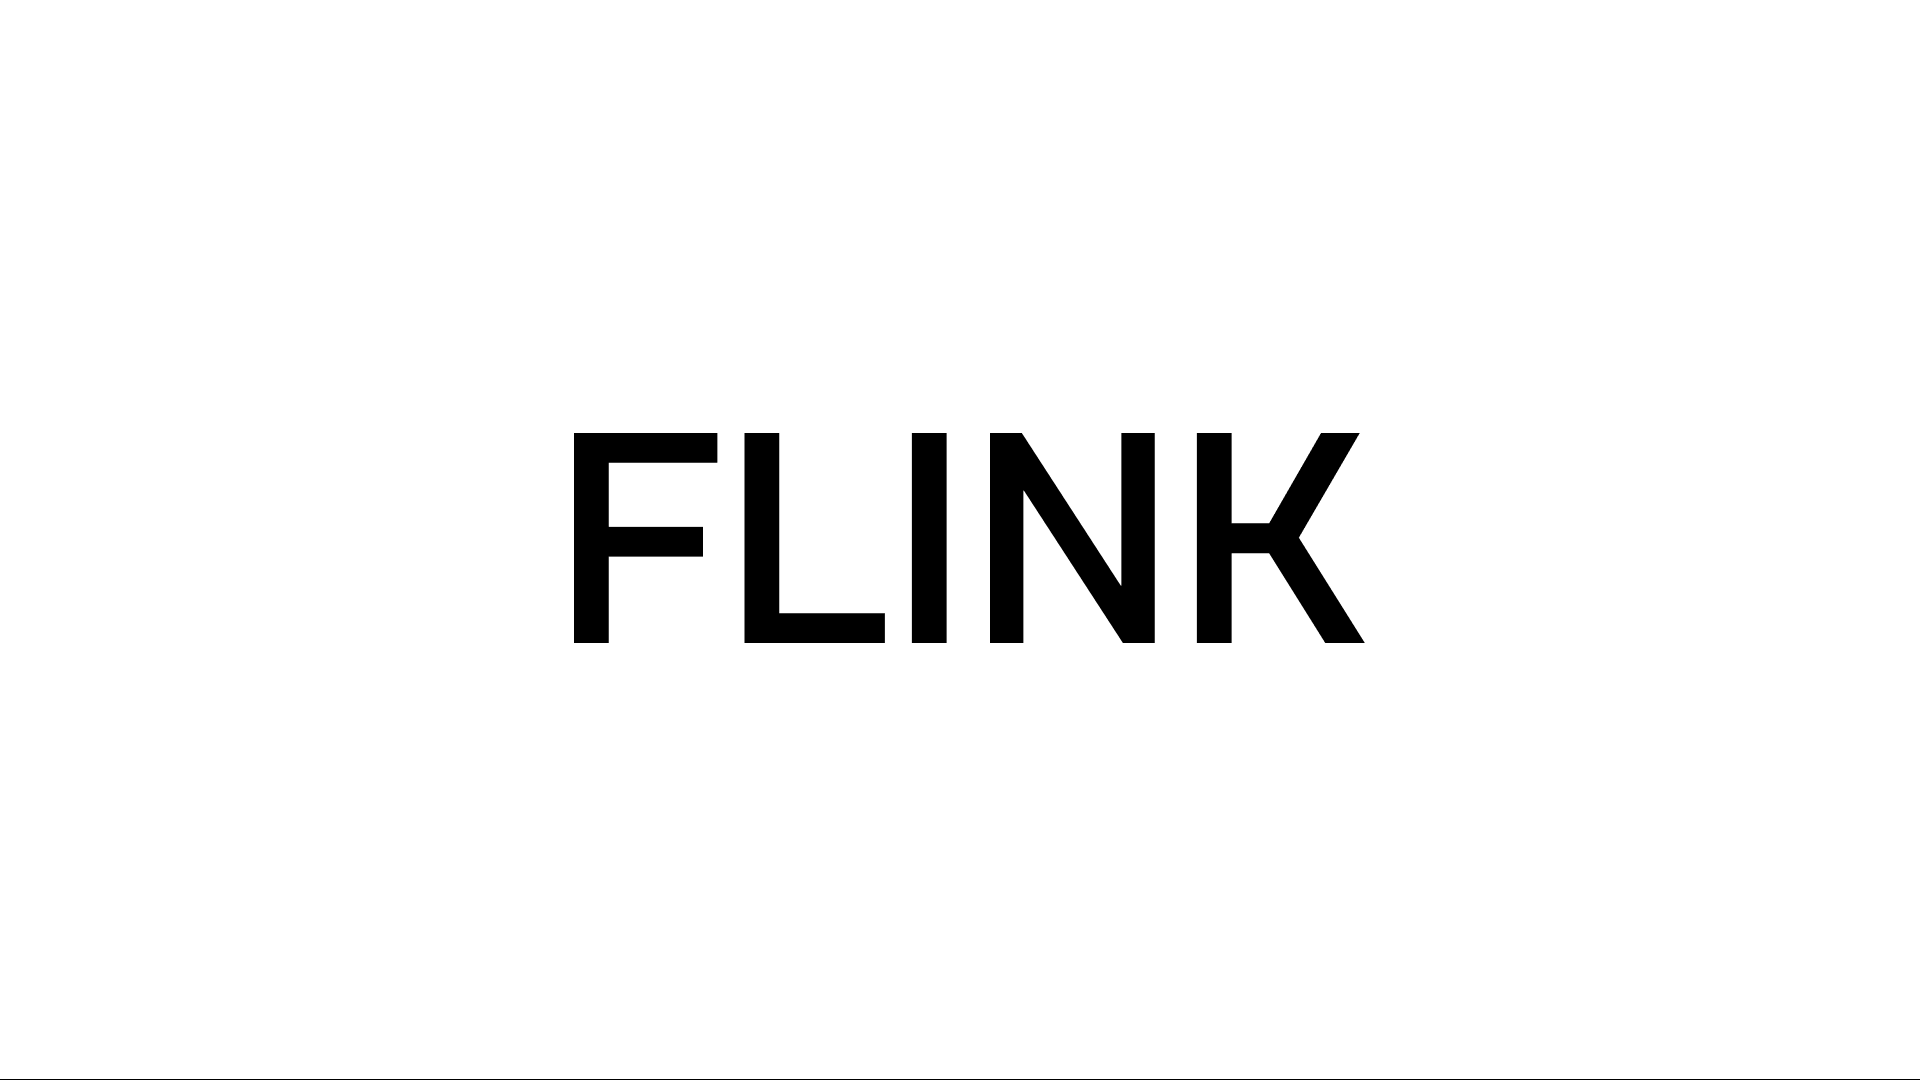
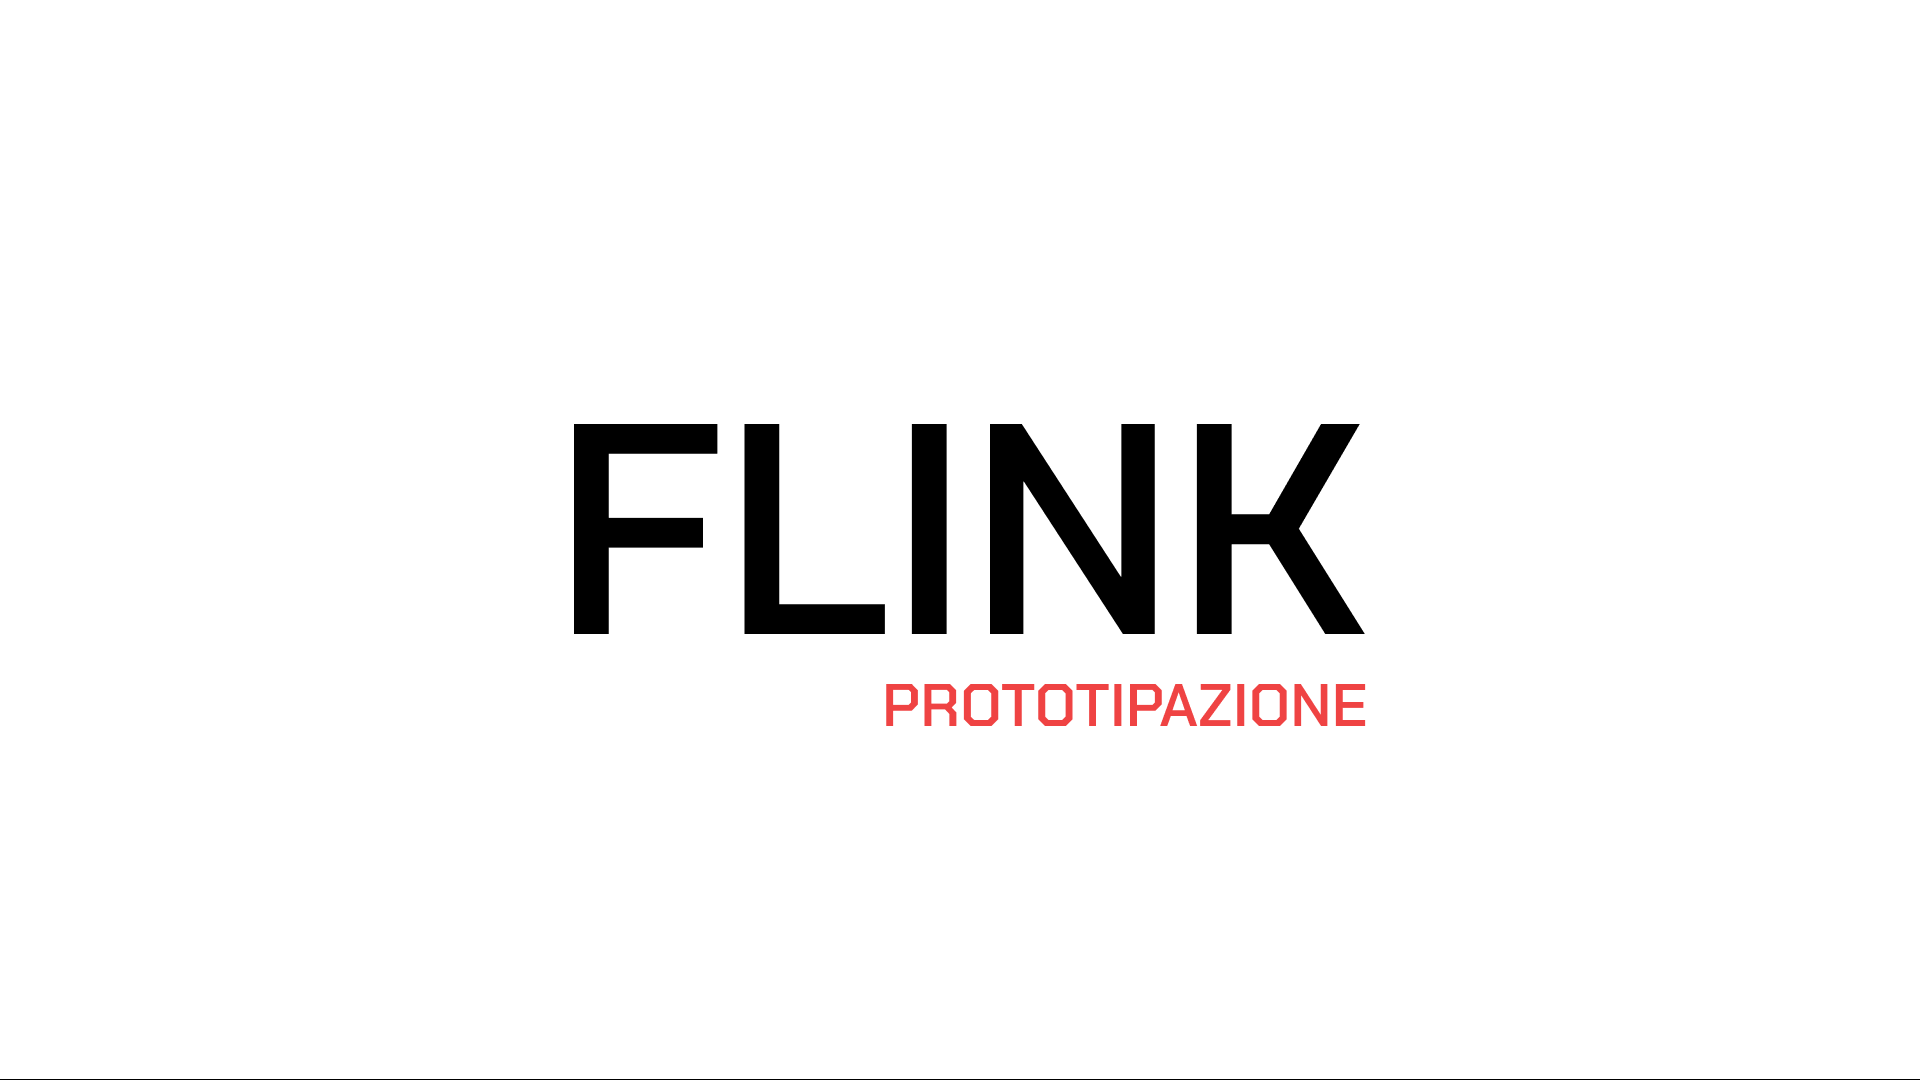
Update Flink project description and assets
Aggiornata la descrizione del progetto Flink per enfatizzare:
- Analisi preliminare del problema
- Strutturazione dei flussi UX
- Prototipazione dell'MVP
- Funzionalità minime per la validazione dell'esperienza utente-tatuatore

Aggiornate anche le immagini del progetto (image.png e preview.png).

🤖 Generated with [Claude Code](https://claude.com/claude-code)

diff --git a/index.html b/index.html
@@ -948,7 +948,7 @@
                 <!-- Esempio 6: Immagine + Video -->
                 <div class="work-item"
                     data-title="Flink"
-                    data-description="Prototipazione e flussi UX per una piattaforma di matching che facilita la connessione tra utenti e tatuatori, ottimizzando la scoperta e l'esperienza del tatuaggio."
+                    data-description="Analisi preliminare del problema, strutturazione dei flussi UX e prototipazione dell'MVP della piattaforma, comprendente tutte le funzionalità minime necessarie per la validazione dell'esperienza di connessione tra utenti e tatuatori."
                     data-author="Cristiano Miolla"
                     data-type="image-video"
                     data-video="project/asset/works/progetto-6/video.webm"
